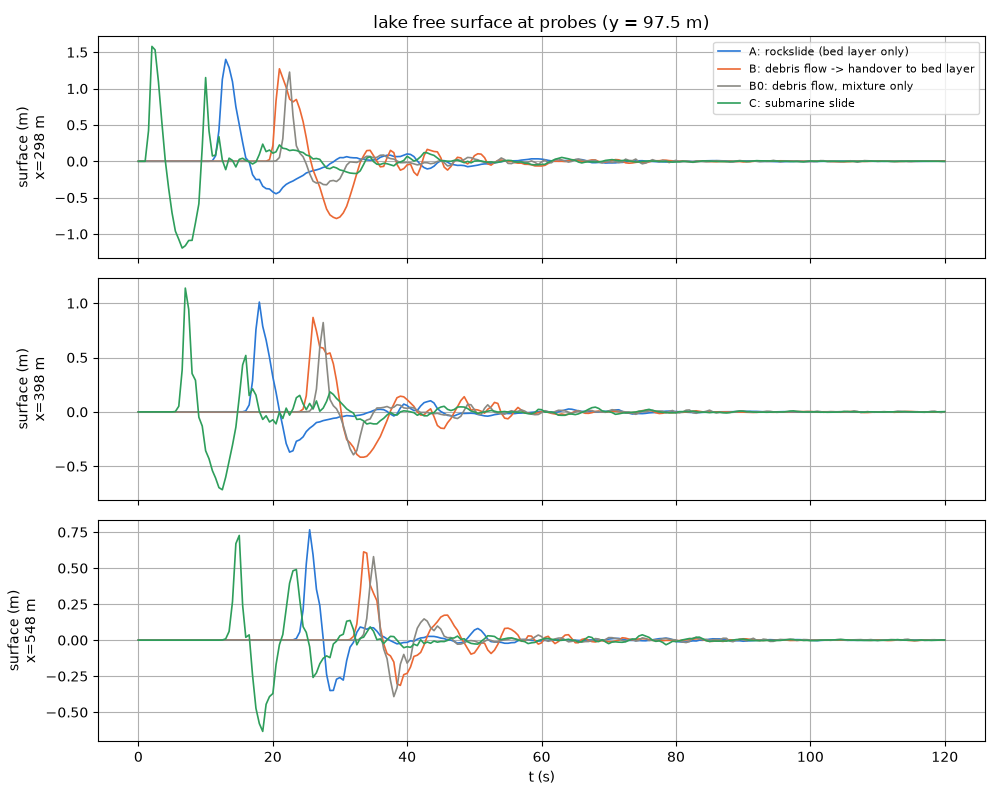
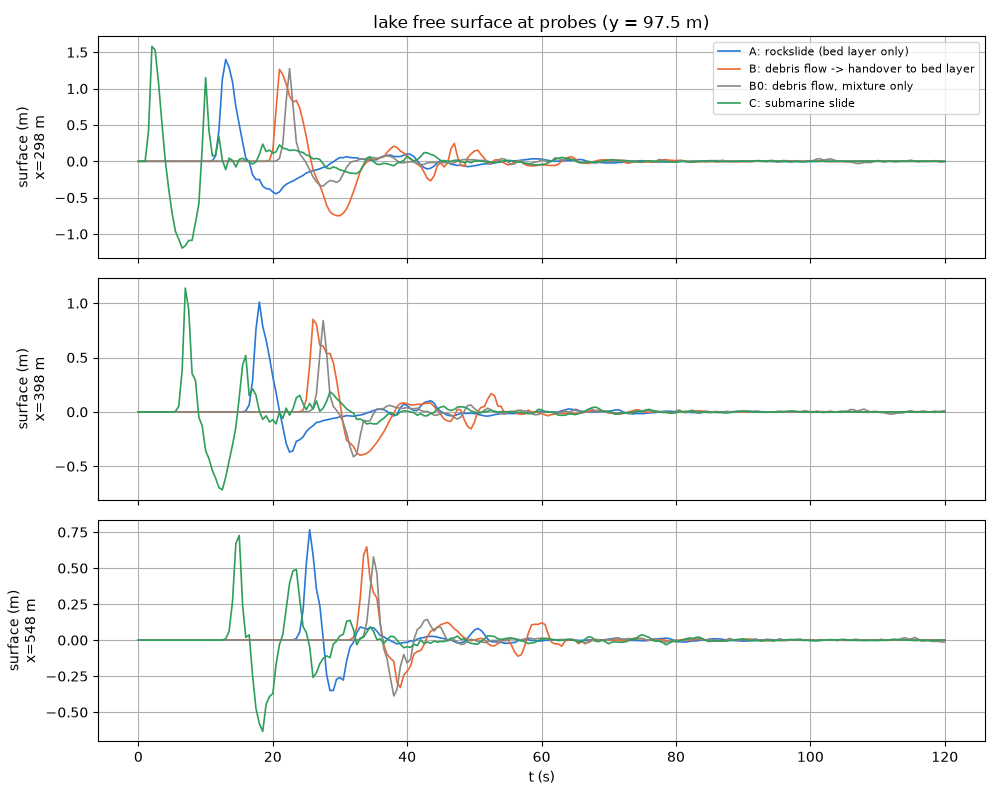
fix(debris): 降伏停止判定を辺の法線成分でなく速さ |V| で行う(横断非一様の実バグ)
速い一方向流の横断方向の辺では法線成分 ≈ 0 で常に db_vstop 未満、横断駆動も
a_y 未満のため横断速度が毎ステップ零化され、行間の質量交換が凍結していた
(Voellmy 等流で行のばらつき 16%。Manning では a_y=0 で出ない)。Coulomb
降伏は速度ベクトルの大きさに対する条件なので、辺の速さ(下限適用前の vv の
平均)で低速を判定する。静止からの動き出し・停止の判定は従来どおり。

効果: test/curvature の斜面 B で行のばらつき 16.0% → 0.0%(全行 = 等流深)、
ny=16 でも 0.1%。曲率項の ODE 比較も改善。developer.md §28.11 に記録、
§28.10 の観察と handoff の要調査項目を解消。

検証: 全 30 ケース PASS(reference 13 はビット一致)、MPI np=2 debris PASS・
curvature 逐次バイト一致。examples/landslide_tsunami を再計算し README の
表と図を更新(A/C 不変、B/B0 は横断方向の広がりぶん変化)。

Claude-Session: https://claude.ai/code/session_01JVyX9gveTEZnBQFQN7LEkA

diff --git a/docs/handoff.md b/docs/handoff.md
@@ -282,10 +282,8 @@
      **曲率項 f_dbcurv(2026-09-30 実装済み。developer.md §28.10、
      test/curvature)**: RAMMS と同じ遠心加速度の垂直応力算入。RAMMS
      校正値での同条件比較の前提が揃った。
-     **要調査(§28.10 の観察)**: Voellmy 等流の横断非一様(ny=8 で
-     壁際の行が薄く速い、ny=16 で中央が薄い波状。Manning では出ない。
-     全行平均は等流深に一致するため 1 次元ベンチマークは成立)。実地形で
-     の意味と原因(横断運動量交換 × h 非依存の摩擦?)の切り分けから。
+     **横断非一様(§28.10 の観察)は原因特定・修正済み(§28.11。降伏停止
+     判定を辺の法線成分でなく速さ |V| で行う)**。
      雪崩固有の残り: SWE→連行可能層(sd)の自動変換(現状は前処理)、
      乾式流動(疑似間隙水の解消 = Phase 2 案c と共通)、実事例
      ランアウト・H/L との突合。残作業:

diff --git a/examples/landslide_tsunami/README.md b/examples/landslide_tsunami/README.md
@@ -72,8 +72,8 @@ t = 120 s の地形変化。A・B・C はいずれも湖底平坦部の縁(x ≈
 | ケース | 汀線帯の堆積(x 200〜275 m) | 湖底(275〜350 m) | 到達 | 先頭波 x=298 m | x=548 m |
 |---|---|---|---|---|---|
 | A 岩屑なだれ | 213 m³ | 18,820 m³ | 332 m | +1.40 m(13 s) | +0.77 m(25 s) |
-| B 土石流→引き渡し | 165 m³ | 17,866 m³ | 338 m | +1.27 m(21 s) | +0.61 m(34 s) |
-| B0 混合体のみ | 11,843 m³ | 0 m³ | 252 m | +1.23 m(22 s) | +0.58 m(35 s) |
+| B 土石流→引き渡し | 199 m³ | 18,077 m³ | 338 m | +1.26 m(21 s) | +0.65 m(34 s) |
+| B0 混合体のみ | 11,401 m³ | 0 m³ | 252 m | +1.27 m(22 s) | +0.58 m(35 s) |
 | C 海底地滑り | 1 m³ | 17,569 m³ | 348 m | +1.58 m(2 s)/−1.19 m | +0.73 m(15 s)/−0.63 m |
 
 読み方:
